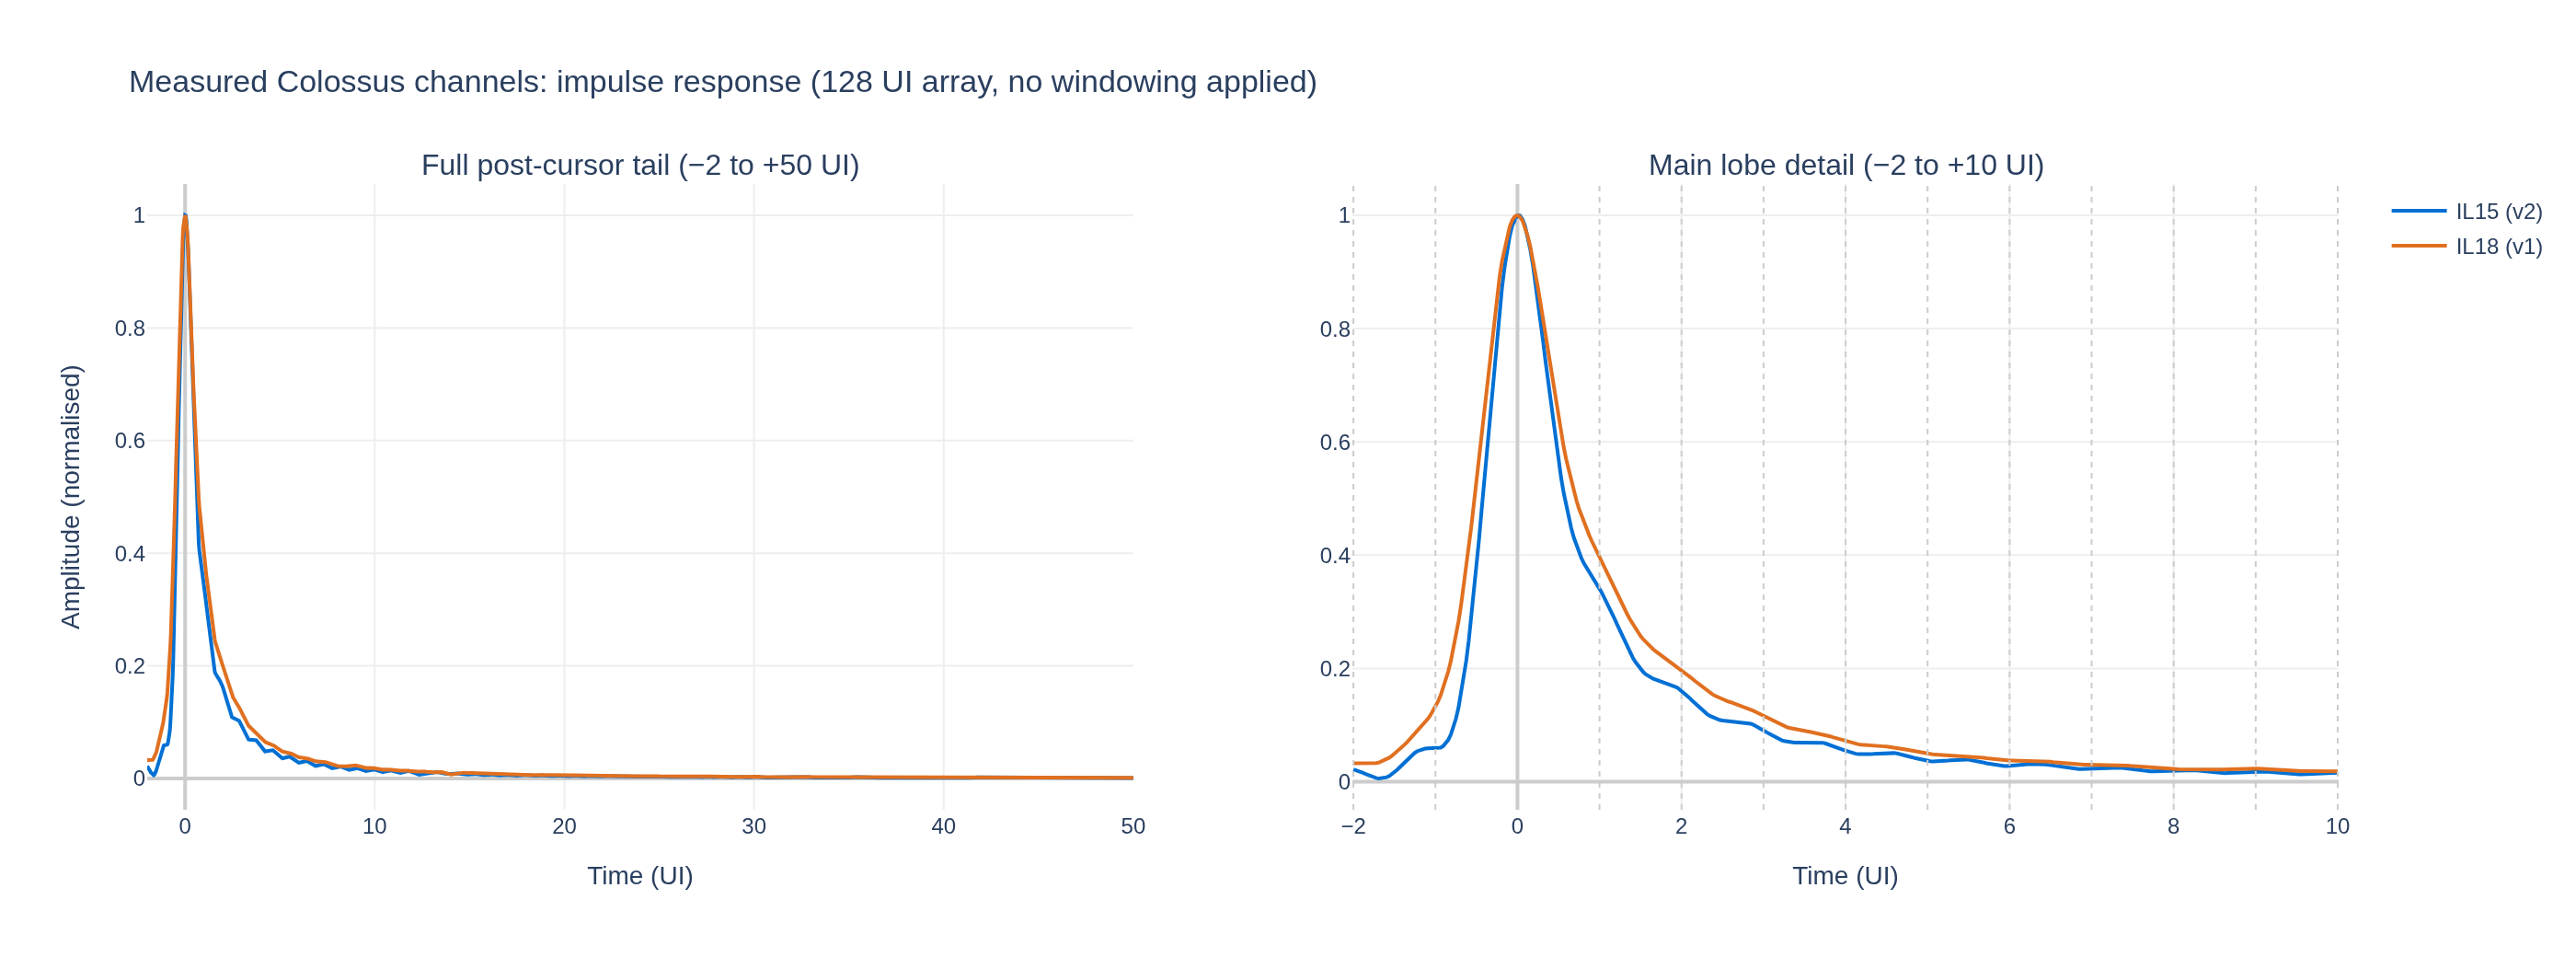
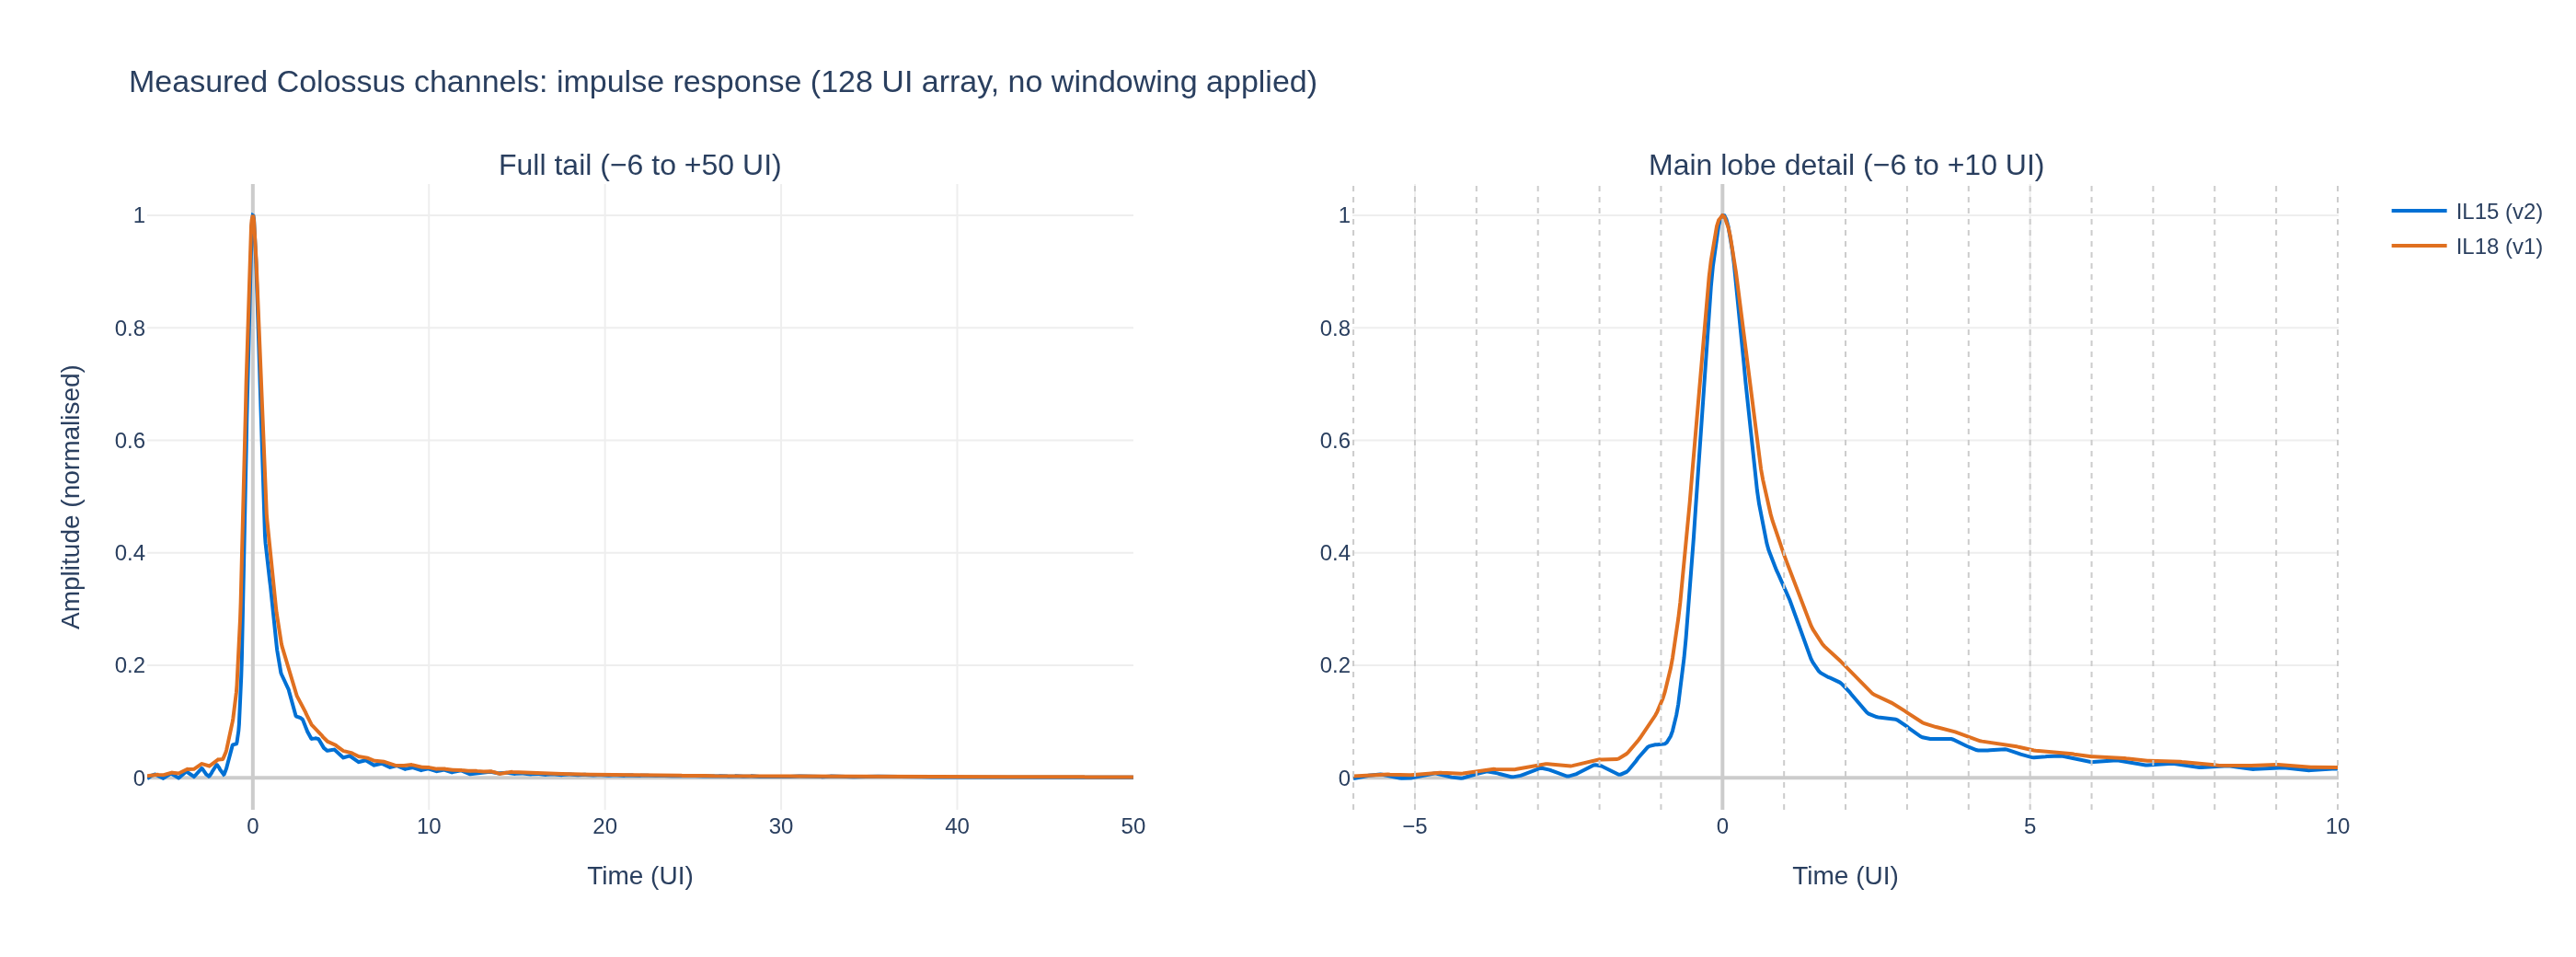
Update GDV channel figures and analysis code

diff --git a/nuggets/group_delay_variation/code/colossus_channel_phase_analysis.py b/nuggets/group_delay_variation/code/colossus_channel_phase_analysis.py
@@ -196,16 +196,16 @@ def plot_mag(fd_data: dict) -> str:
 
 def plot_ir(ir_data: dict) -> str:
     """
-    Plot the full meaningful post-cursor tail.  The IR array is 128 UI long
-    with no windowing; the tail decays as ~1/sqrt(t) (skin-effect dispersion)
-    and is still ~1.5% of peak at +10 UI, ~0.1% at +50 UI.
-    Show -2 to +50 UI so the full tail is visible.
+    Show full rising edge (pre-cursor visible from ~-5 UI) and post-cursor tail.
+    The IR array is 128 UI (no windowing); tail decays ~1/sqrt(t) (skin effect).
+    Pre-cursor rises from ~0 at -5 UI: IL15 -2UI=2.2%, IL18 -2UI=3.3% of peak.
     """
+    T_PRE  = 6    # UI of pre-cursor to show (rising edge starts ~-5 UI)
     T_POST = 50   # UI of post-cursor to show
     fig = make_subplots(
         rows=1, cols=2,
-        subplot_titles=["Full post-cursor tail (−2 to +50 UI)",
-                        "Main lobe detail (−2 to +10 UI)"],
+        subplot_titles=[f"Full tail (−{T_PRE} to +{T_POST} UI)",
+                        f"Main lobe detail (−{T_PRE} to +10 UI)"],
         horizontal_spacing=0.10,
     )
     for label, ir in ir_data.items():
@@ -215,7 +215,7 @@ def plot_ir(ir_data: dict) -> str:
         h     = raw / raw[pk]                        # normalise to positive peak
         t_ui  = (np.arange(len(raw)) - pk) / SPS
 
-        for col_n, (t_lo, t_hi) in enumerate([(- 2, T_POST), (-2, 10)], start=1):
+        for col_n, (t_lo, t_hi) in enumerate([(-T_PRE, T_POST), (-T_PRE, 10)], start=1):
             mask = (t_ui >= t_lo) & (t_ui <= t_hi)
             fig.add_trace(go.Scatter(
                 x=t_ui[mask], y=h[mask], name=label,
@@ -223,7 +223,7 @@ def plot_ir(ir_data: dict) -> str:
                 showlegend=(col_n == 1)), row=1, col=col_n)
 
     # UI tick lines on detail panel
-    for k in range(-2, 11):
+    for k in range(-T_PRE, 11):
         fig.add_vline(x=k, line_dash="dot", line_color="#cccccc",
                       line_width=1, col=2)
 